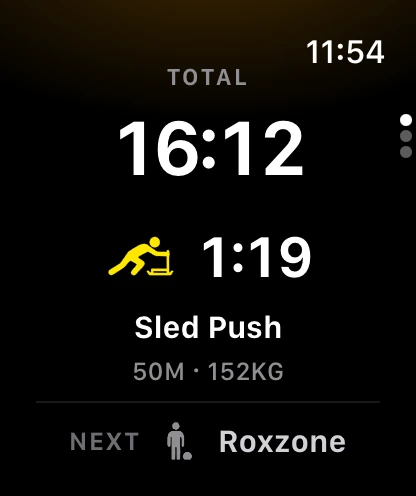
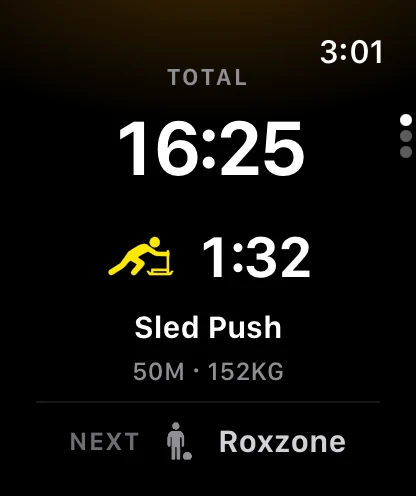
Build 18 notes (PFT) and new watch screenshots

Changed region(s): [[0.5312, 0.2419, 0.75, 0.3629], [0.5938, 0.4536, 0.75, 0.5746], [0.75, 0.0605, 0.9375, 0.1512]]

diff --git a/splits8/index.html b/splits8/index.html
@@ -455,7 +455,16 @@ footer p { margin: 4px 0; }
     <h2><span class="ko">빌드마다<br>바뀐 것.</span><span class="en">What changed<br>in each build.</span></h2>
     <div class="log">
       <article>
-        <div class="ver">1.0.0 (17)<span class="new">NEW</span><span class="when">2026.10.02</span></div>
+        <div class="ver">1.0.0 (18)<span class="new">NEW</span><span class="when">2026.10.06</span></div>
+        <ul>
+          <li><span class="ko">PFT(체력 테스트)를 추가했습니다. 6가지 종목을 이어서 하고, 총 시간에 따라 골드·실버·브론즈 등급이 붙습니다. 등급은 SPLITS8 자체 기준입니다.</span><span class="en">Added PFT (Physical Fitness Test): six movements back to back, with a Gold, Silver or Bronze grade from your total time. Grades are SPLITS8's own guide.</span></li>
+          <li><span class="ko">세 번째 탭이 Test로 바뀌었습니다. 맨 위에서 PFT와 Full Sim을 고릅니다. 홈의 아이디 옆에는 내 PFT 등급 뱃지가 붙습니다.</span><span class="en">The third tab is now Test: pick PFT or Full Sim at the top. Your PFT grade shows as a badge next to your name on Home.</span></li>
+          <li><span class="ko">워치 홈 화면을 정리했습니다. 설명 줄을 빼서 Training · PFT · Full Simulation · Race 네 개가 한 화면에 들어옵니다.</span><span class="en">Tidier watch home: Training, PFT, Full Simulation and Race now fit on one screen.</span></li>
+          <li><span class="ko">워치 구간 목록과 끝 화면이 시계와 겹치던 것을 고쳤습니다.</span><span class="en">Fixed the watch segment list and summary sliding under the clock.</span></li>
+        </ul>
+      </article>
+      <article>
+        <div class="ver">1.0.0 (17)<span class="when">2026.10.02</span></div>
         <ul>
           <li><span class="ko">트레이닝 만들기 화면의 취소·저장 버튼을 맨 위에 고정했습니다. 가끔 안 눌리던 문제도 함께 고쳤습니다.</span><span class="en">Cancel and Save now stay pinned at the top of the training builder, and no longer fail to respond.</span></li>
           <li><span class="ko">카드를 천천히 밀 때 화면이 잘못 열리던 문제를 고쳤습니다. 삭제 지점까지 밀면 진동으로 알려 줍니다.</span><span class="en">Fixed cards opening by mistake on a slow swipe. A tap of haptic tells you when Delete is ready.</span></li>
